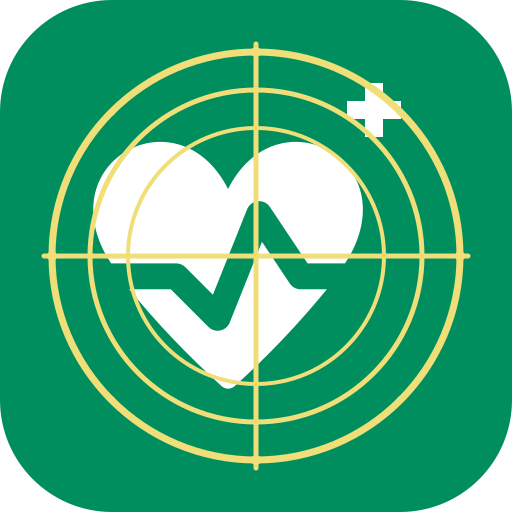
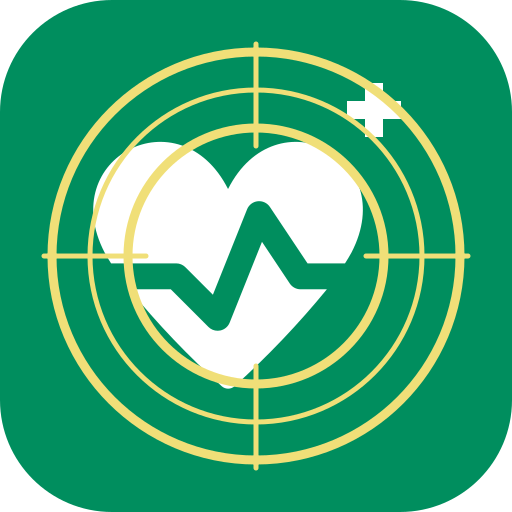
Segment crosshair axes and strengthen outer rings

diff --git a/CHANGELOG.md b/CHANGELOG.md
@@ -13,7 +13,7 @@ Alle relevanten Änderungen an AEDjaeger werden hier nachvollziehbar festgehalte
 - Automatisierte axe-Prüfungen für Start-, Foto-, Karten-, Such-, Vorschau- und Fehlerzustände sowie ein WebKit/iPhone-14-Projekt in der E2E-Suite. Die manuelle VoiceOver-/TalkBack-Abnahme ist dokumentiert und bleibt offen.
 
 ### Changed
-- PWA-Homescreen-Symbole für iOS und Android zeigen das weiße medizinische Plus mit Abstand zum Herz. Herz und Plus liegen auf derselben Ebene; Fadenkreuz und Ringe sind darüber angeordnet. Leuchteffekt und unterschiedliche Ring-Deckkräfte sind entfernt, damit das Grün gleichmäßig wirkt (digitale Annäherung an RAL 6032, `#008E5E`).
+- PWA-Homescreen-Symbole für iOS und Android zeigen das weiße medizinische Plus mit Abstand zum Herz. Herz und Plus liegen auf derselben Ebene; Fadenkreuz und Ringe sind darüber angeordnet. Die Fadenkreuzachsen lassen die Mitte frei und überlappen den inneren Ring leicht; Ringstärken außen/mitte/innen: 9/5/9 px. Leuchteffekt und unterschiedliche Ring-Deckkräfte sind entfernt, damit das Grün gleichmäßig wirkt (digitale Annäherung an RAL 6032, `#008E5E`).
 - Kartenbedienung per Zwei-Finger-Zoom sowie Plus-/Minus-Tasten ergänzt; Kartenrollen nennen jetzt zugängliche Kurzhinweise. Kleine Texte nutzen skalierbare `rem`-Größen mit mindestens 12 px.
 - Verbindungsstatus zeigt Haken oder Strich zusätzlich zur Farbe. Info-, Schließen-, Konto- und Kartenzoom-Schaltflächen bieten mindestens 44 px Tippfläche.
 
